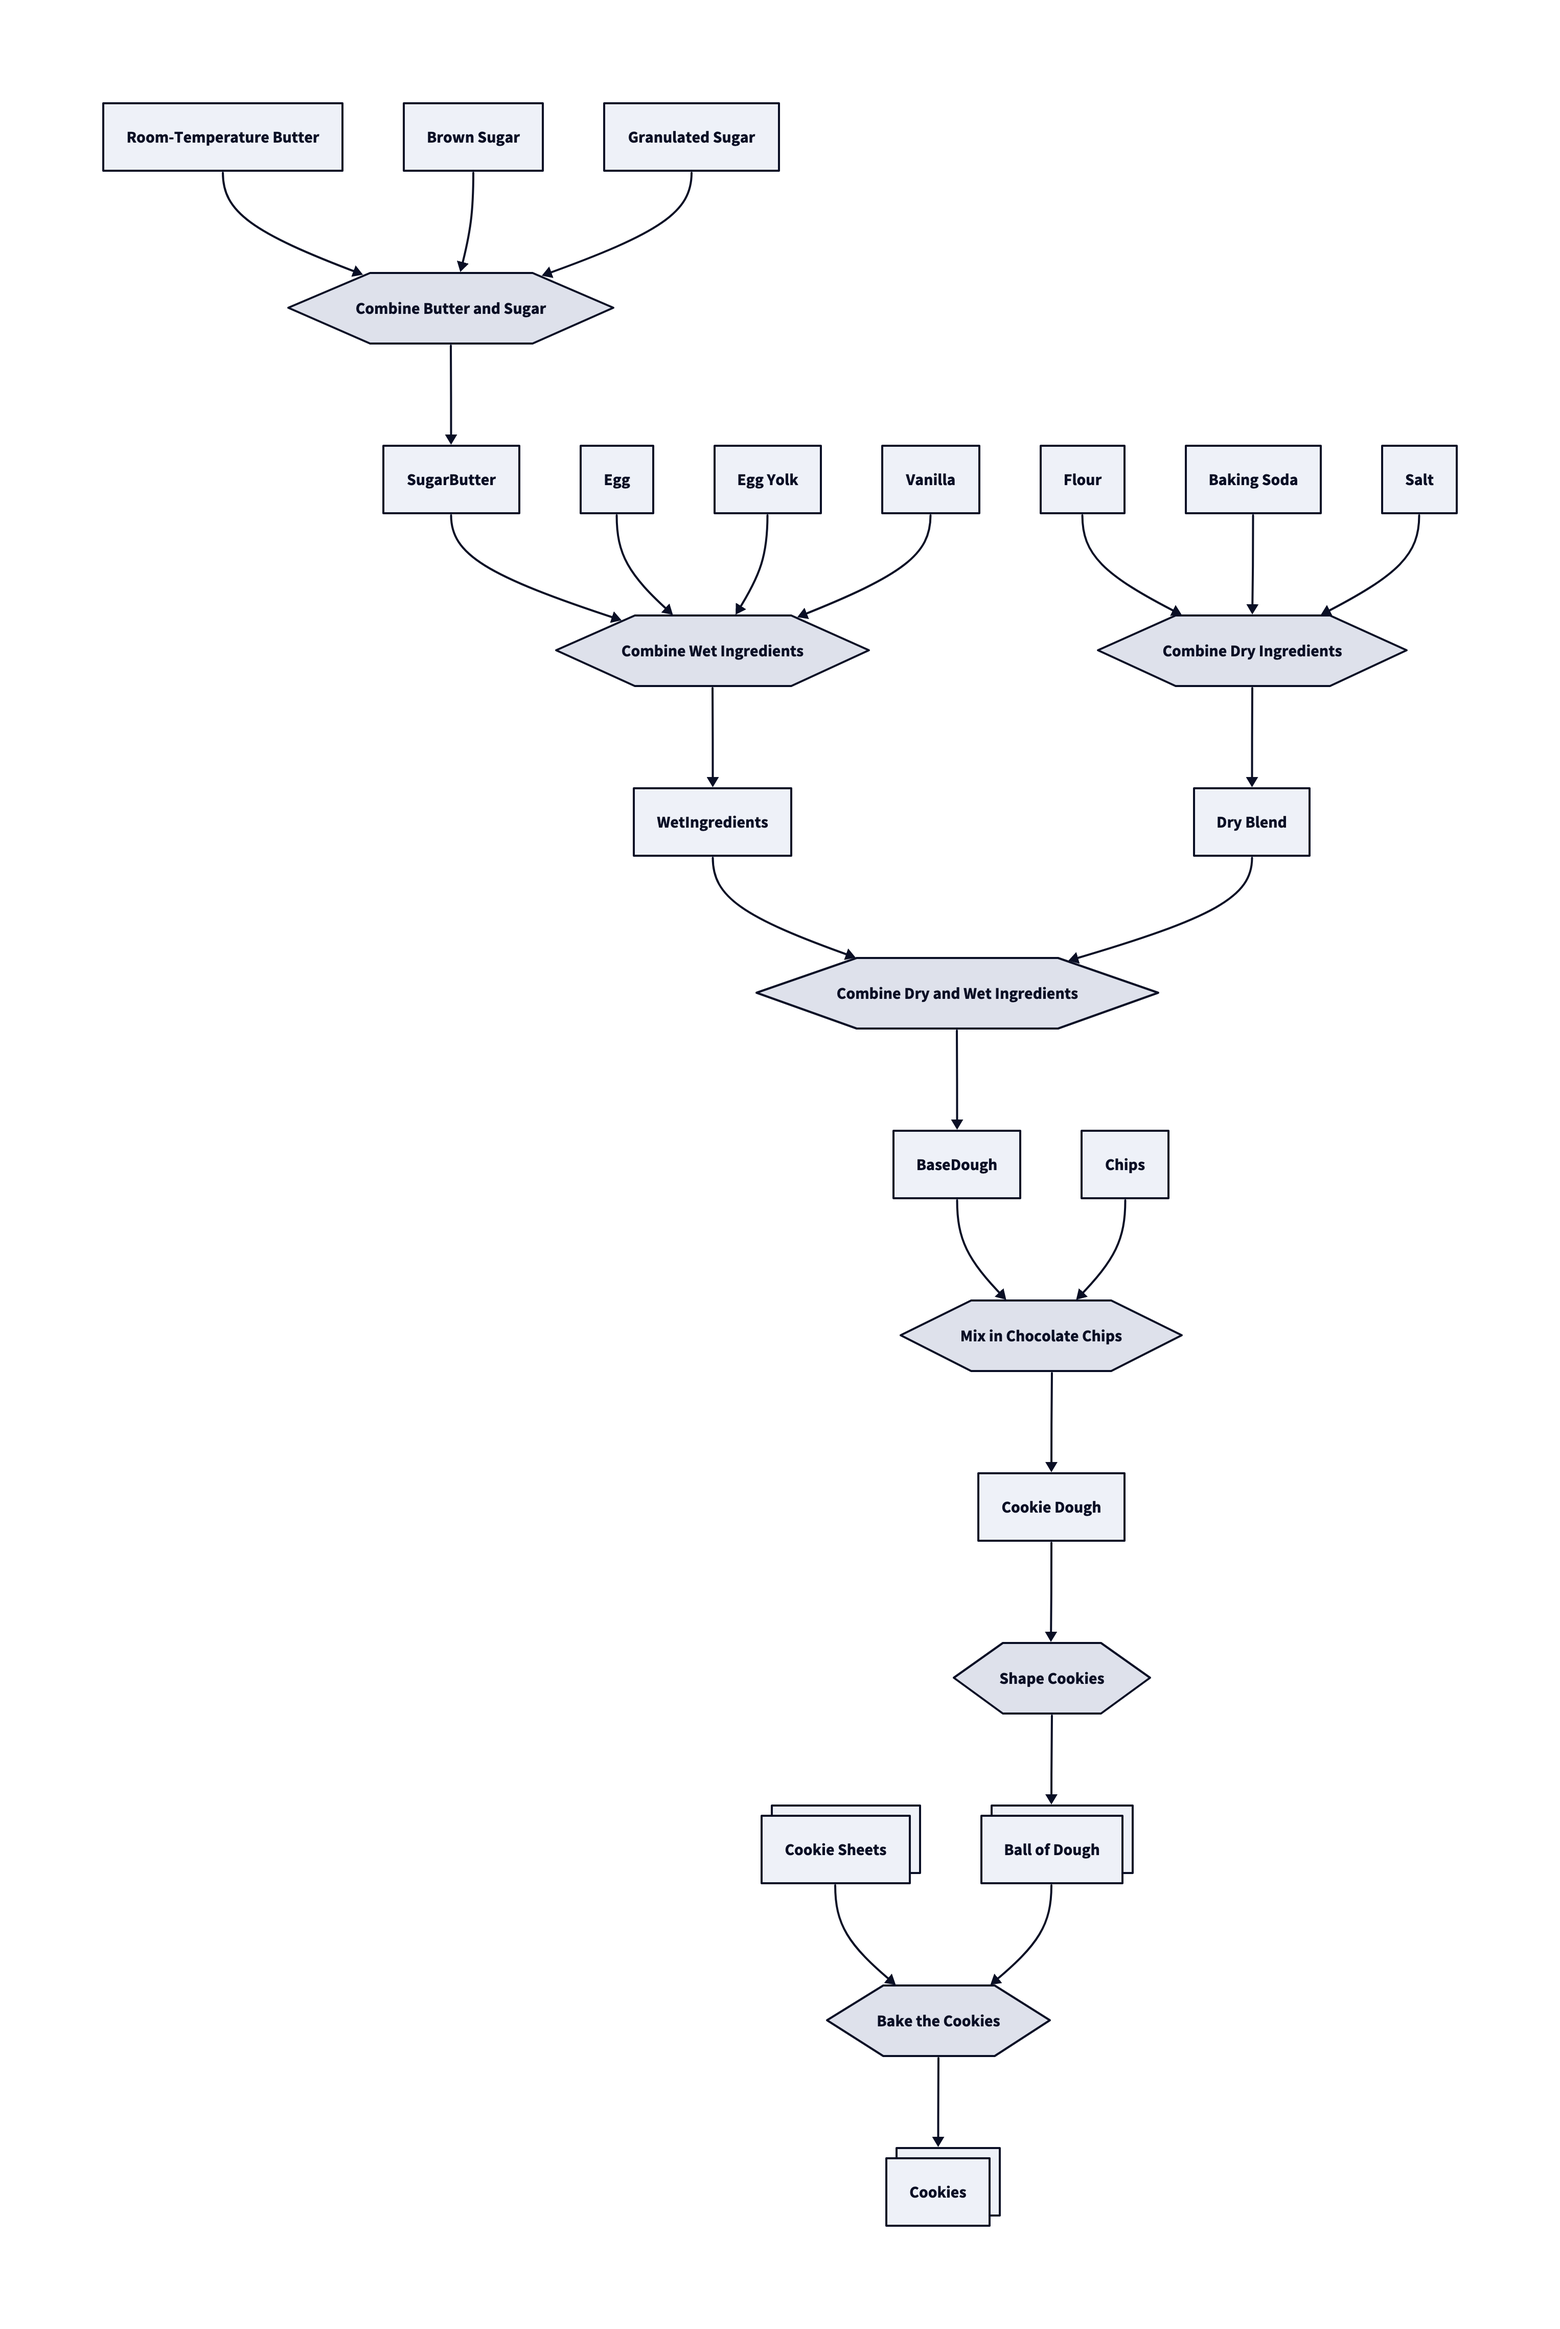
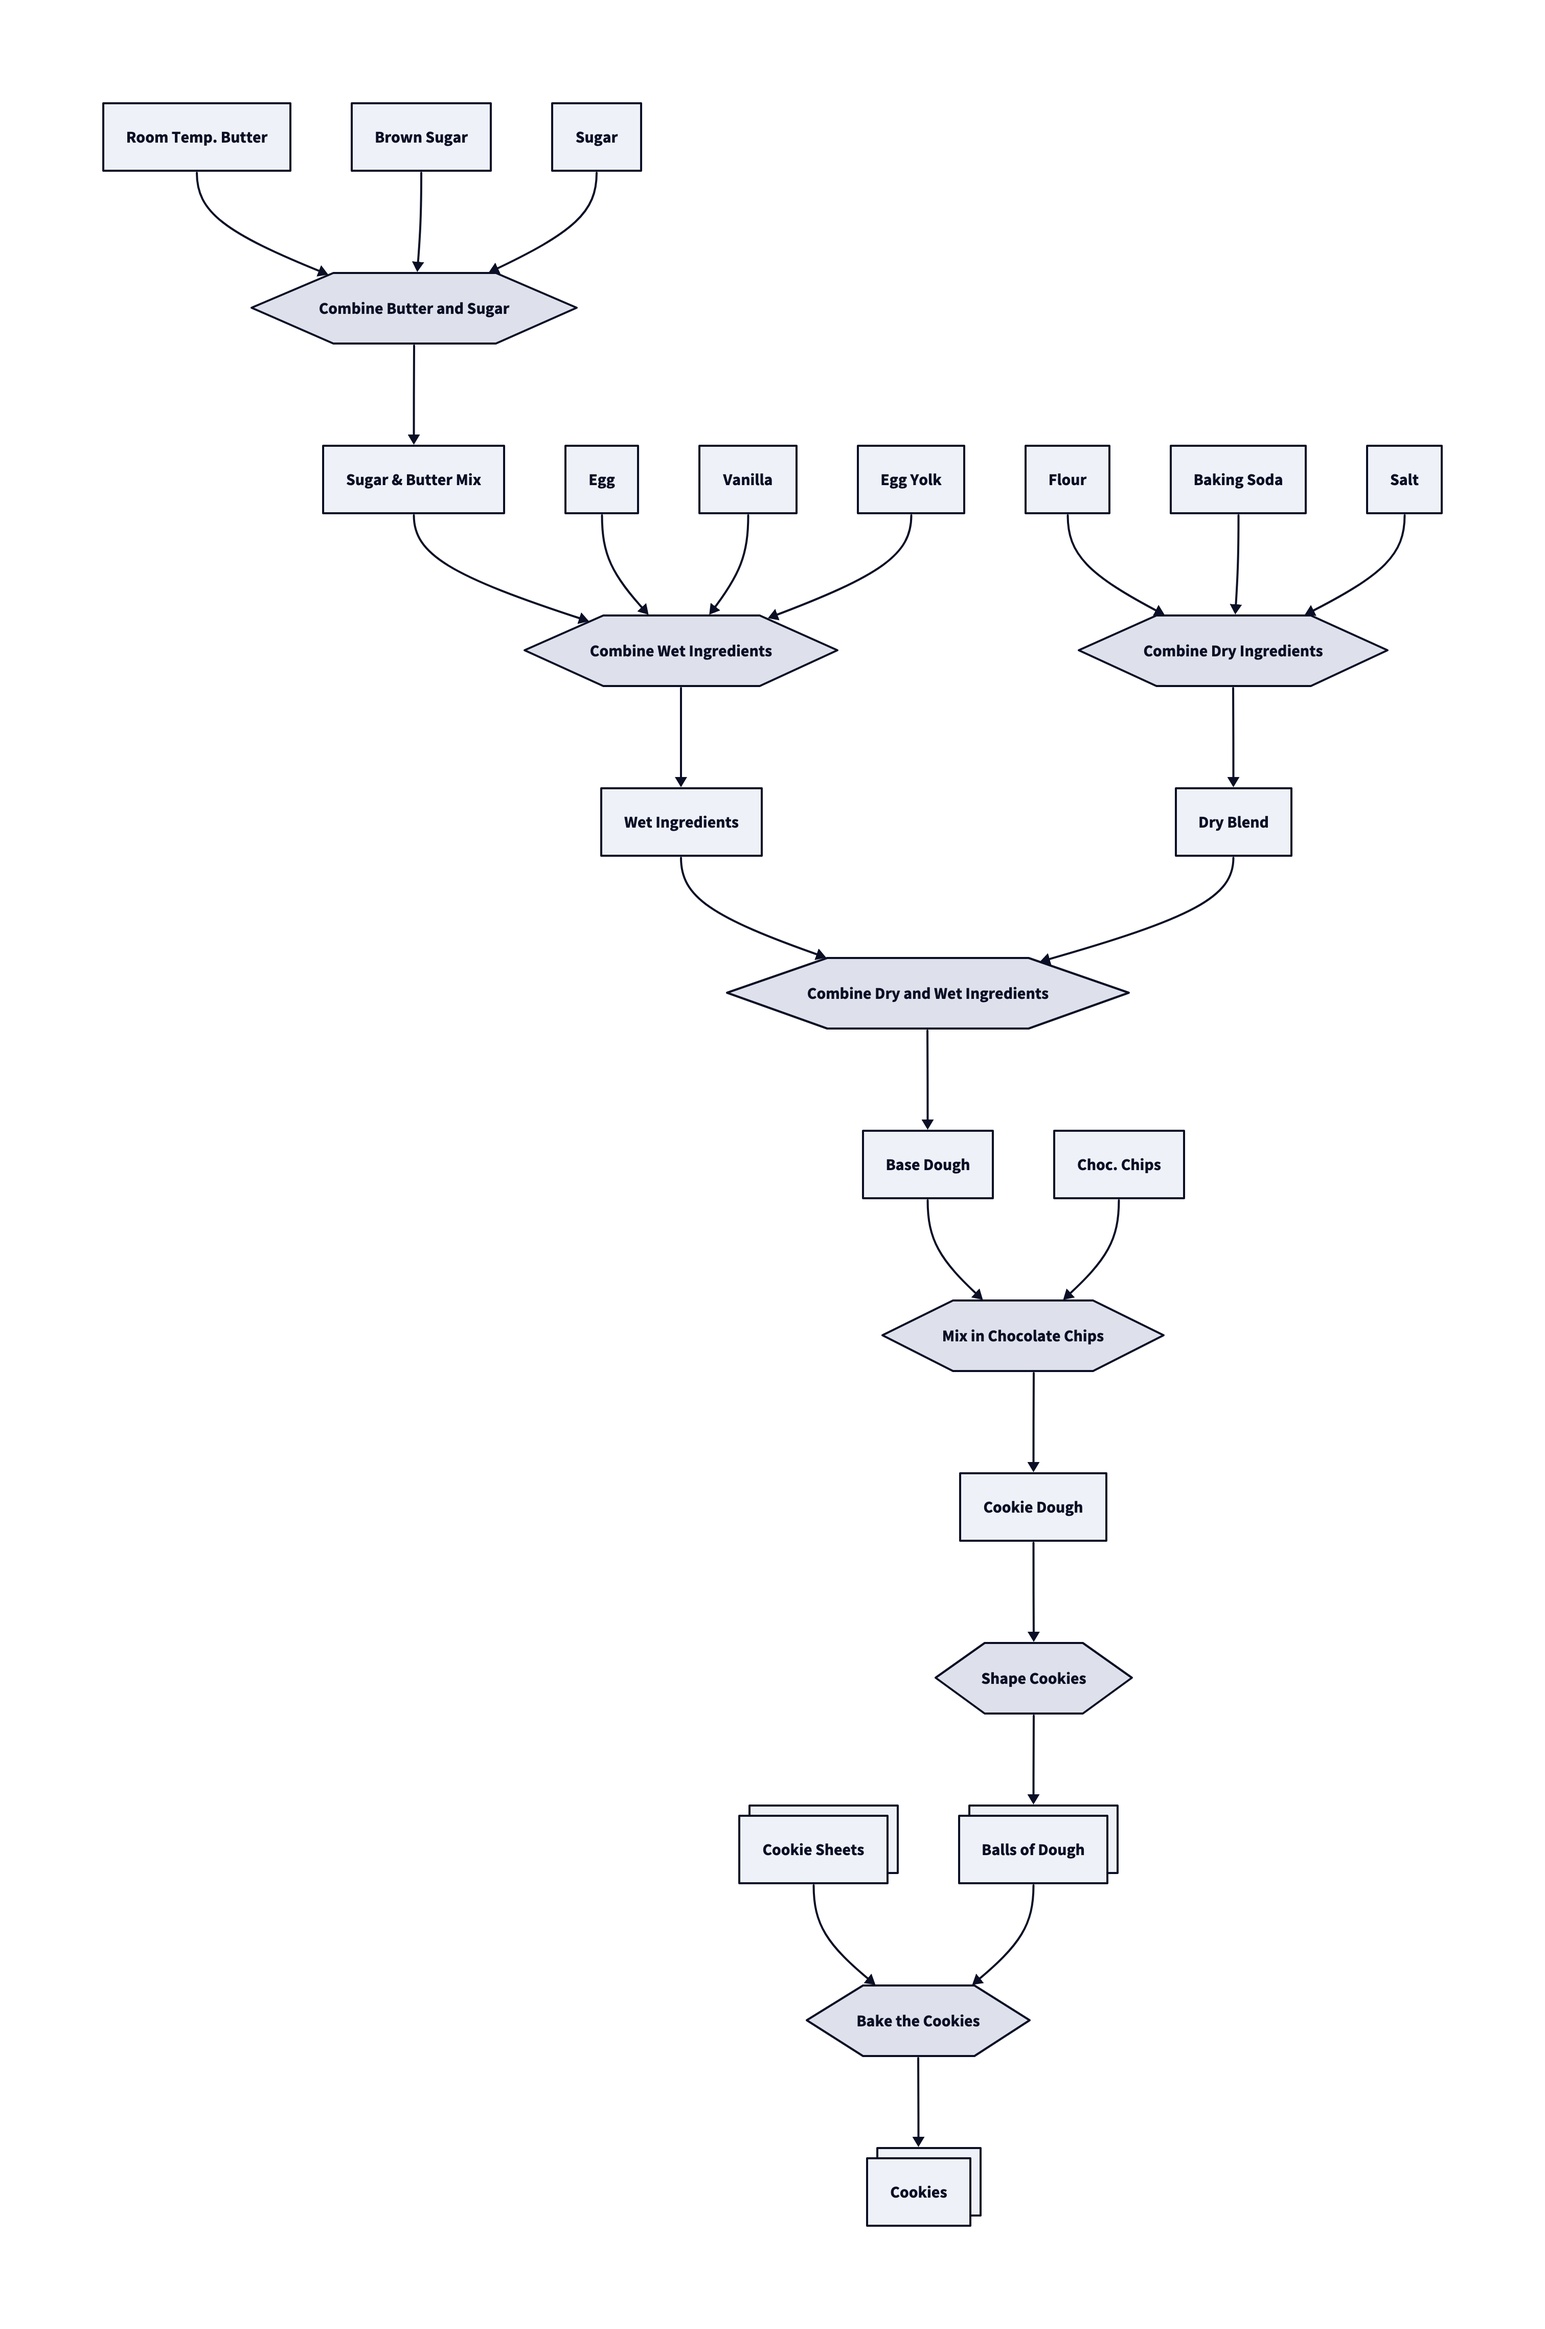
chore: Updated git ignore to not keep the idea files on git.  Updated the examples to use the more compact means of giving the printable name for a process or input in addition to the unique ID.

diff --git a/src/what_not_how/dsl_parser.py b/src/what_not_how/dsl_parser.py
@@ -18,7 +18,8 @@ class DSL (BaseModel):
     group_vars: Set[str] = Field(default={"implements"}, frozen=True)
 
     options_kw: Set[str] = Field(default={"options"}, frozen=True)
-    options_vars: Set[str] = Field(default={"tool", "title", "filename", "svg-name", "recurse", "flatten"}, frozen=True)
+    options_vars: Set[str] = Field(default={"title", "filename", "base-name", "recurse", "flatten"}, frozen=True)
+    # removed "tool" keyword for now
 
     process_kw: Set[str] = Field(default={"process", "function", "procedure"}, frozen=True)
     process_vars: Set[str] = Field(default={"stackable"}, frozen=True)
@@ -46,12 +47,11 @@ dsl = DSL()
 # ------------------------------------------------------
 #   Error handling
 # ------------------------------------------------------
-class ErrorData:
-    def __init__(self, message, line, line_no, col_no):
-        self.message = message
-        self.line = line
-        self.line_no = line_no
-        self.col_no = col_no
+class ErrorData (BaseModel):
+    message: str = Field()
+    line: str = Field()
+    line_no: int = Field()
+    col_no: Optional[int] = Field()
 
 
 error_list: List[ErrorData] = []
@@ -64,7 +64,7 @@ def format_error(error: ErrorData) -> str:
 
 def error_check(condition, message, line, line_no, col_no=None):
     if condition:
-        error = ErrorData(message, line.strip(), line_no, col_no)
+        error = ErrorData(message=message, line=line.strip(), line_no=line_no, col_no=col_no)
         error_list.append(error)
         print(format_error(error))
     return condition
@@ -91,6 +91,19 @@ def index_of_next_space(line, start) -> int:
     return -1
 
 
+def index_of_next_comma(line, start) -> int:
+    if start < 0 or start >= len(line):
+        return -1
+    special_char = None
+    if line[start] in [","]:
+        special_char = line[start]
+    for i in range(start, len(line)):
+        if (not special_char) and line[i] in [","]:
+            return i
+        elif special_char and line[i] != special_char:
+            return i
+    return -1
+
 def index_of_next_non_space(line, start) -> int:
     for i in range(start, len(line)):
         if line[i] != " ":
@@ -98,11 +111,14 @@ def index_of_next_non_space(line, start) -> int:
     return -1
 
 
-def next_token(line, start):
+def next_token(line, start, comma_separated=False):
     if start < 0:
         return "", -1
     pos_1 = index_of_next_non_space(line, start)
-    pos_2 = index_of_next_space(line, pos_1)
+    if comma_separated:
+        pos_2 = index_of_next_comma(line, pos_1)
+    else:
+        pos_2 = index_of_next_space(line, pos_1)
     if pos_2 > 0:
         return line[pos_1:pos_2], pos_2
     return line[pos_1:], -1
@@ -159,7 +175,7 @@ def smart_tokenize(line: str, line_no) -> List[str]:
                 tokens.append(colon)
                 pos3 = pos2
                 while pos3 >= 0:
-                    tok3, pos3 = next_token(line, pos3)
+                    tok3, pos3 = next_token(line, pos3, comma_separated=True)
                     if len(tok3) > 0:
                         tokens.append(tok3)
         elif tok1 in dsl.str_list_kw:

diff --git a/src/what_not_how/what.py b/src/what_not_how/what.py
@@ -5,21 +5,37 @@ import subprocess
 
 
 def generate_graph(fname: str):
+    print(f"Parsing model file: '{fname}'...")
     mdl, err_list = parse_model(fname)
+    print("Pre-processing model...")
     post_load_processing(mdl)
     output_basename = fname[:(fname.rfind('.'))]
+    print("Building diagram code and resulting image...")
     build_data_flow_graph(mdl, output_basename)
     subprocess.run(['d2', f"{output_basename}.d2", f"{output_basename}.png"])
+    print(f"Generated diagram image: {output_basename}.png")
 
 
 # TASK: Add CLI interface
 
 
 if __name__ == "__main__":
-    # model_file = 'examples/what_not_how/what_not_how.what'
-    # model_file = 'examples/optimizer_tool_sample/optimizer.what'
-    model_file = 'examples/node_types_example/node_types.what'
-    # model_file = 'examples/cookie_recipe/cookies.what'
-    generate_graph(model_file)
+    diagram = 4
+
+    if diagram == 1 or diagram <= 0:
+        model_file = 'examples/what_not_how/what_not_how.what'
+        generate_graph(model_file)
+
+    if diagram == 2 or diagram <= 0:
+        model_file = 'examples/node_types_example/node_types.what'
+        generate_graph(model_file)
+
+    if diagram == 3 or diagram <= 0:
+        model_file = 'examples/optimizer_tool_sample/optimizer.what'
+        generate_graph(model_file)
+
+    if diagram == 4 or diagram <= 0:
+        model_file = 'examples/cookie_recipe/cookies.what'
+        generate_graph(model_file)
 
     print("Boom! done.")

diff --git a/tests/test_parse.py b/tests/test_parse.py
@@ -43,14 +43,16 @@ def _build(inputs, expected):
         _build("post-condition:", ["", "post-condition", ":"]),
         _build("Not a list: A, B, C", ["", "Not a list: A, B, C"]),
         _build("options:", ["", "options", ":"]),
-        _build("tool: mermaid", ["", "tool", ":", "mermaid"]),
         _build("title: Example A", ["", "title", ":", "Example A"]),
         _build("filename: exp-A", ["", "filename", ":", "exp-A"]),
-        _build("svg-name: output", ["", "svg-name", ":", "output"]),
+        _build("base-name: output", ["", "base-name", ":", "output"]),
         _build("recurse: true", ["", "recurse", ":", "true"]),
         _build("flatten: 2", ["", "flatten", ":", "2"]),
         _build("flatten: false", ["", "flatten", ":", "false"]),
         _build("implements: Pr-1", ["", "implements", ":", "Pr-1"]),
+        _build("in: A* 'A Name'", ["", "in", ":", "A* 'A Name'"]),
+        _build("in: A* 'A Name', B? 'Bee'", ["", "in", ":", "A* 'A Name'", ",", "B? 'Bee'"]),
+        _build("", [""]),
     ],
 )
 def test_smart_tokenize(input_text, expected):

diff --git a/src/what_not_how/model_data.py b/src/what_not_how/model_data.py
@@ -40,6 +40,7 @@ class Process (BaseModel):
     inputs: List['DataIdentifier'] = []
     outputs: List['DataIdentifier'] = []
     notes: List[str] = []
+    assumptions: List[str] = []
     pre_conditions: List[str] = []
     post_conditions: List[str] = []
     parent: Optional[ModelGroup] = None
